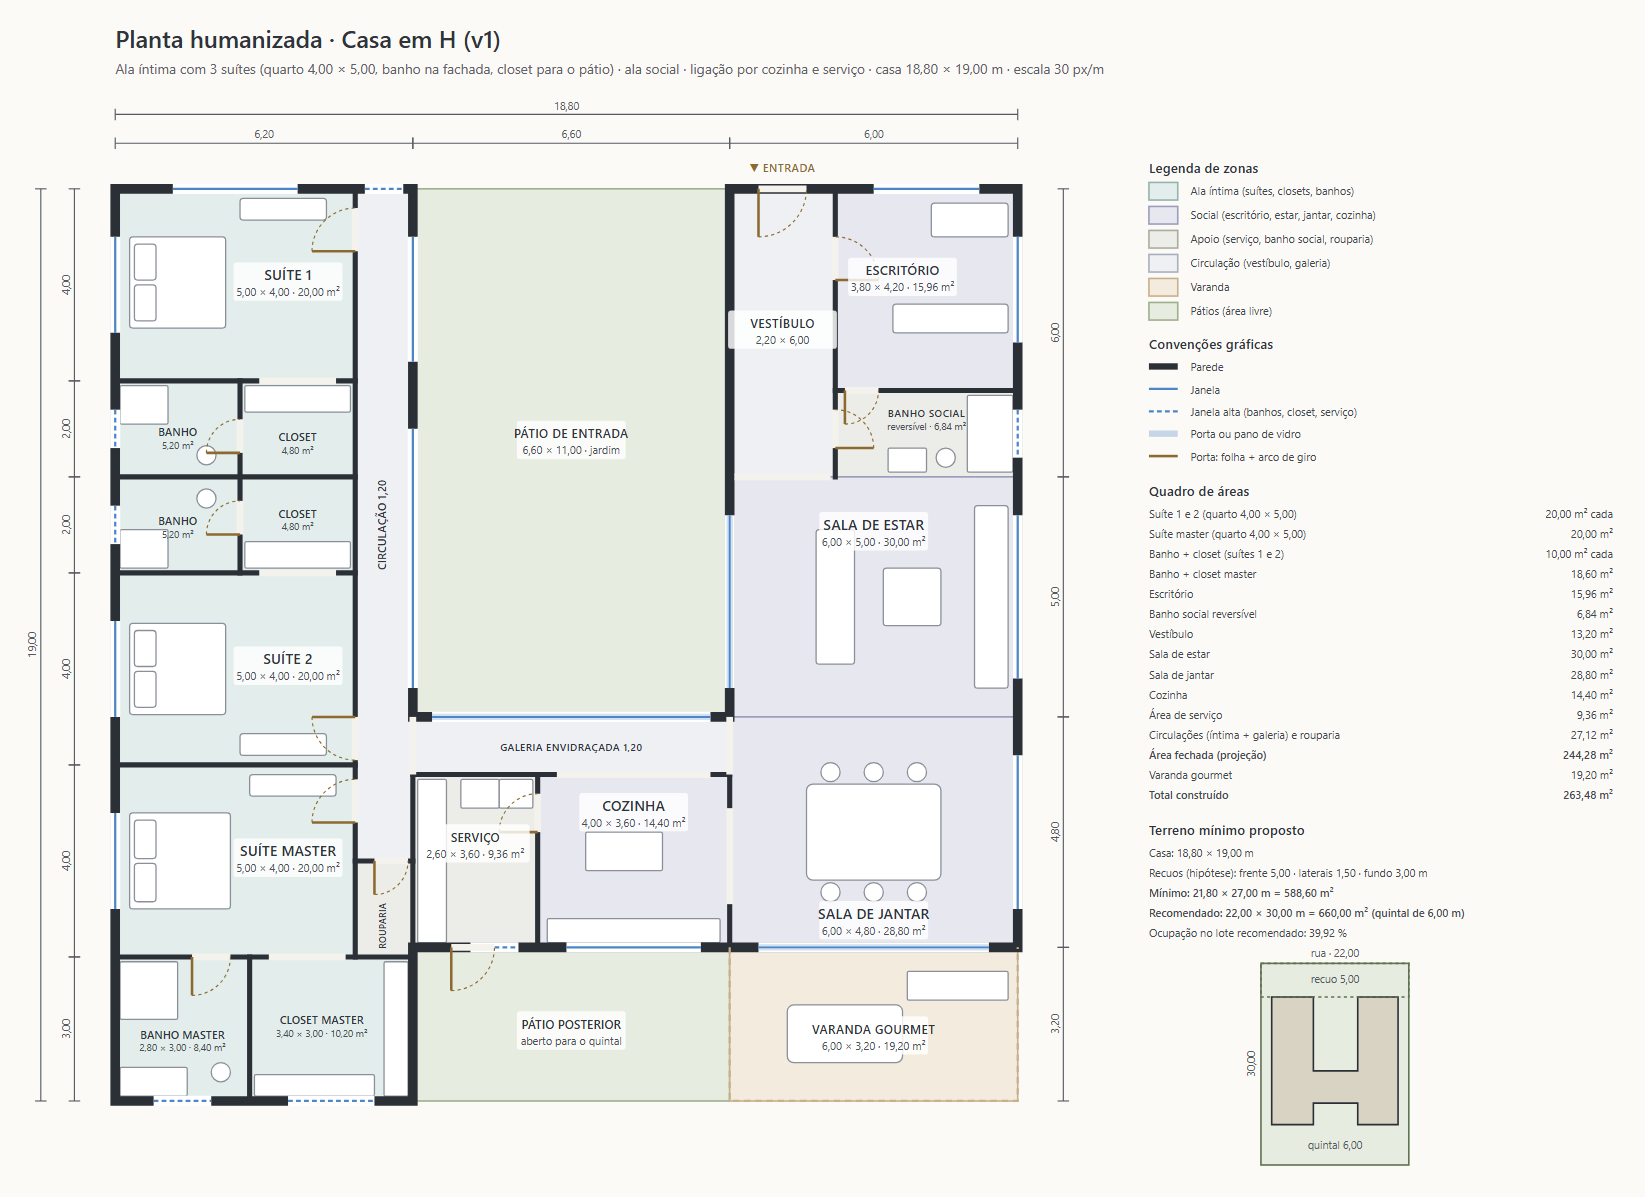
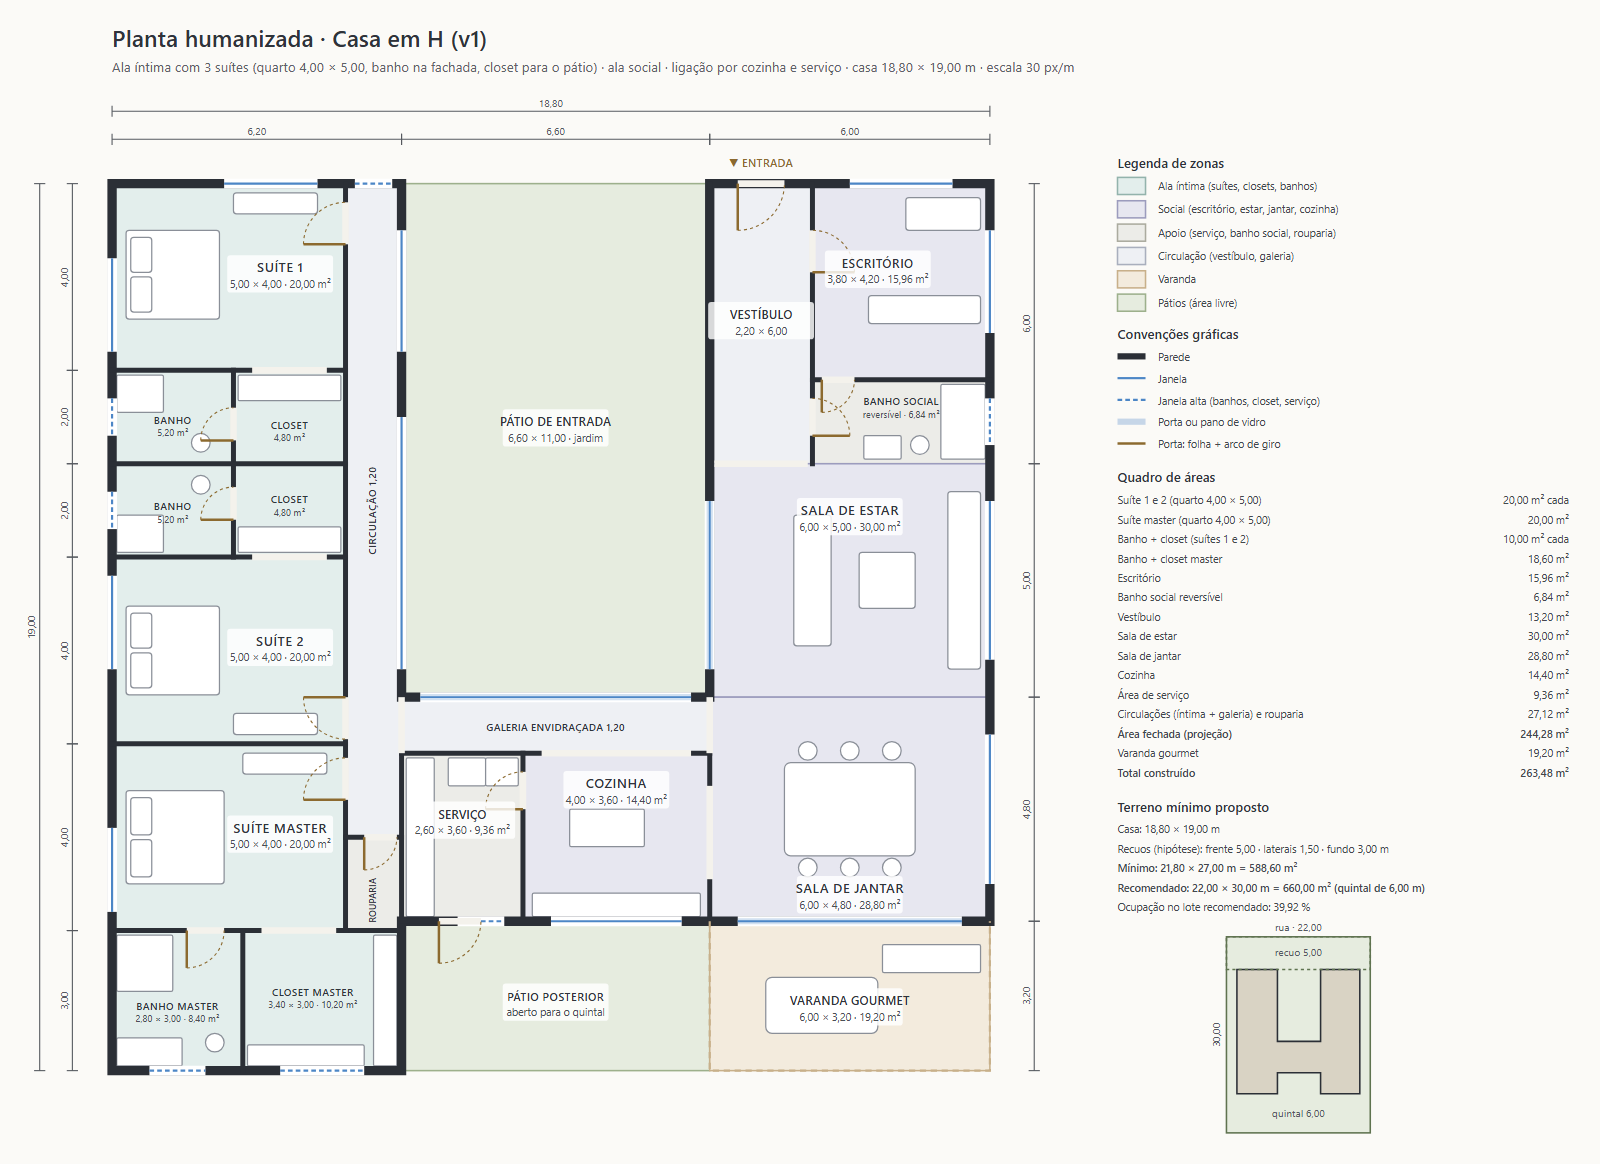
fix(casa-h): janelas dos quartos em pontos distantes
Premissa de ventilação cruzada aplicada à casa em H (planta única, sem
divergência entre desenhos):
- Suíte 1: janela frontal junto à circulação (2,40–4,40 m) e lateral no
  fundo (1,60–3,60 m); centros a 67 % da diagonal (antes, 50 %).
- Suítes 2 e master (uma face externa): janela deslocada para longe da
  porta.
- Área de janela continua acima de 1/8 do piso. SVG e PNG regerados.

diff --git a/casa-h/gerar.js b/casa-h/gerar.js
@@ -74,7 +74,9 @@ const VAOS = [
 ];
 // Janelas [x0,y0,x1,y1, alta?] e portas de vidro [.., 'vidro']
 const JAN = [
-  [1.2, 0, 3.8, 0], [0, 1, 0, 3], [0, 9, 0, 11], [0, 13, 0, 15],
+  // quartos: janelas em pontos distantes (premissa de 05/10/2026): na suíte 1, a frontal junto à circulação e a lateral no fundo;
+  // nas suítes 2 e master (uma só face externa), a janela longe da porta
+  [2.4, 0, 4.4, 0], [0, 1.6, 0, 3.6], [0, 8.4, 0, 10.4], [0, 13.8, 0, 15.6],
   [0, 4.6, 0, 5.4, 1], [0, 6.6, 0, 7.4, 1], [0.8, 19, 2.0, 19, 1], [3.6, 19, 5.4, 19, 1],
   [5.2, 0, 6.0, 0, 1], [6.2, 1.0, 6.2, 3.6], [6.2, 5.0, 6.2, 10.4],
   [6.6, 11, 12.4, 11, 'vidro'], [7.4, 15.8, 8.4, 15.8, 1], [9.4, 15.8, 12.2, 15.8],
